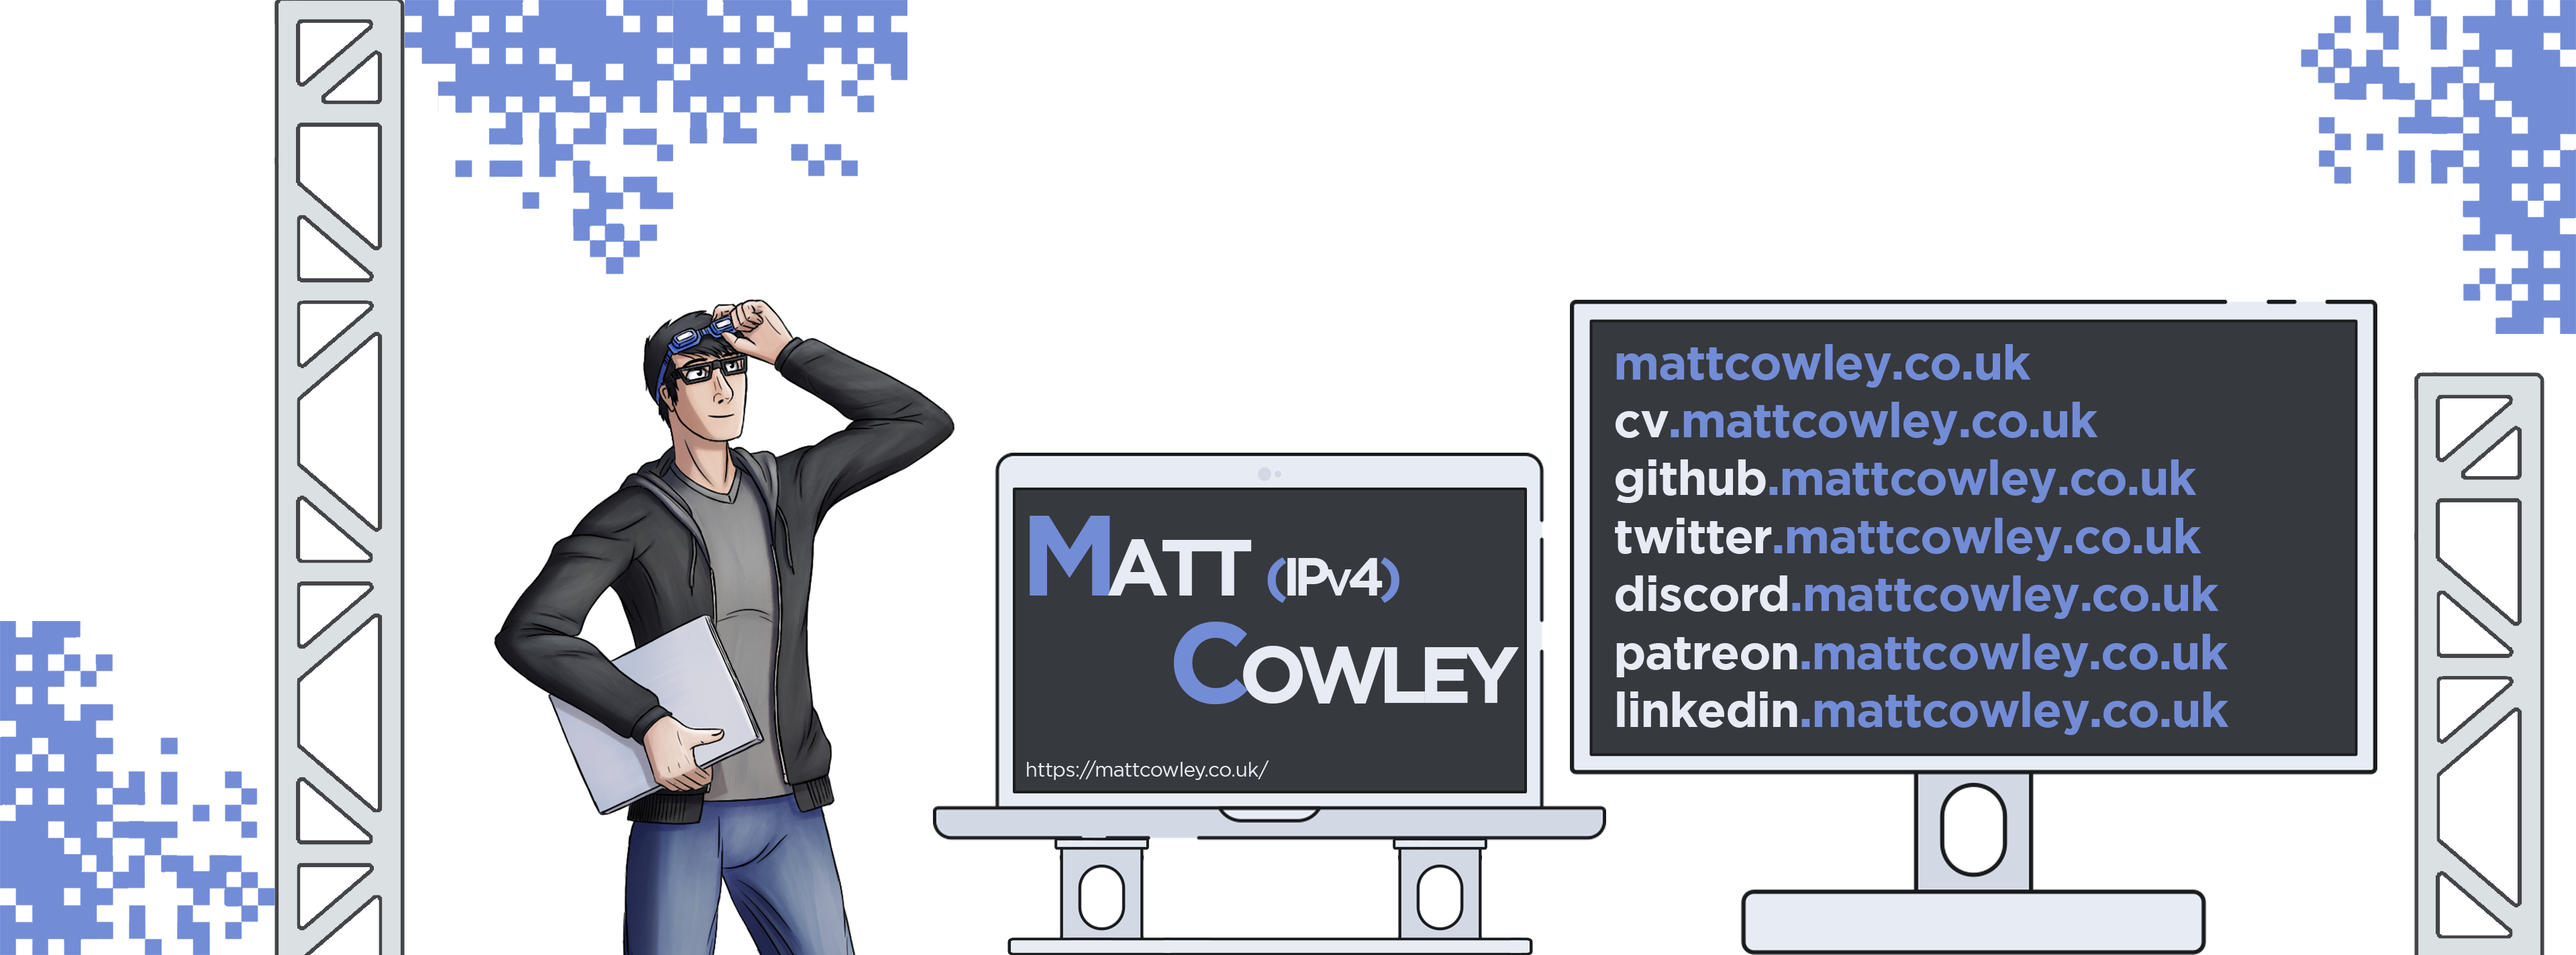
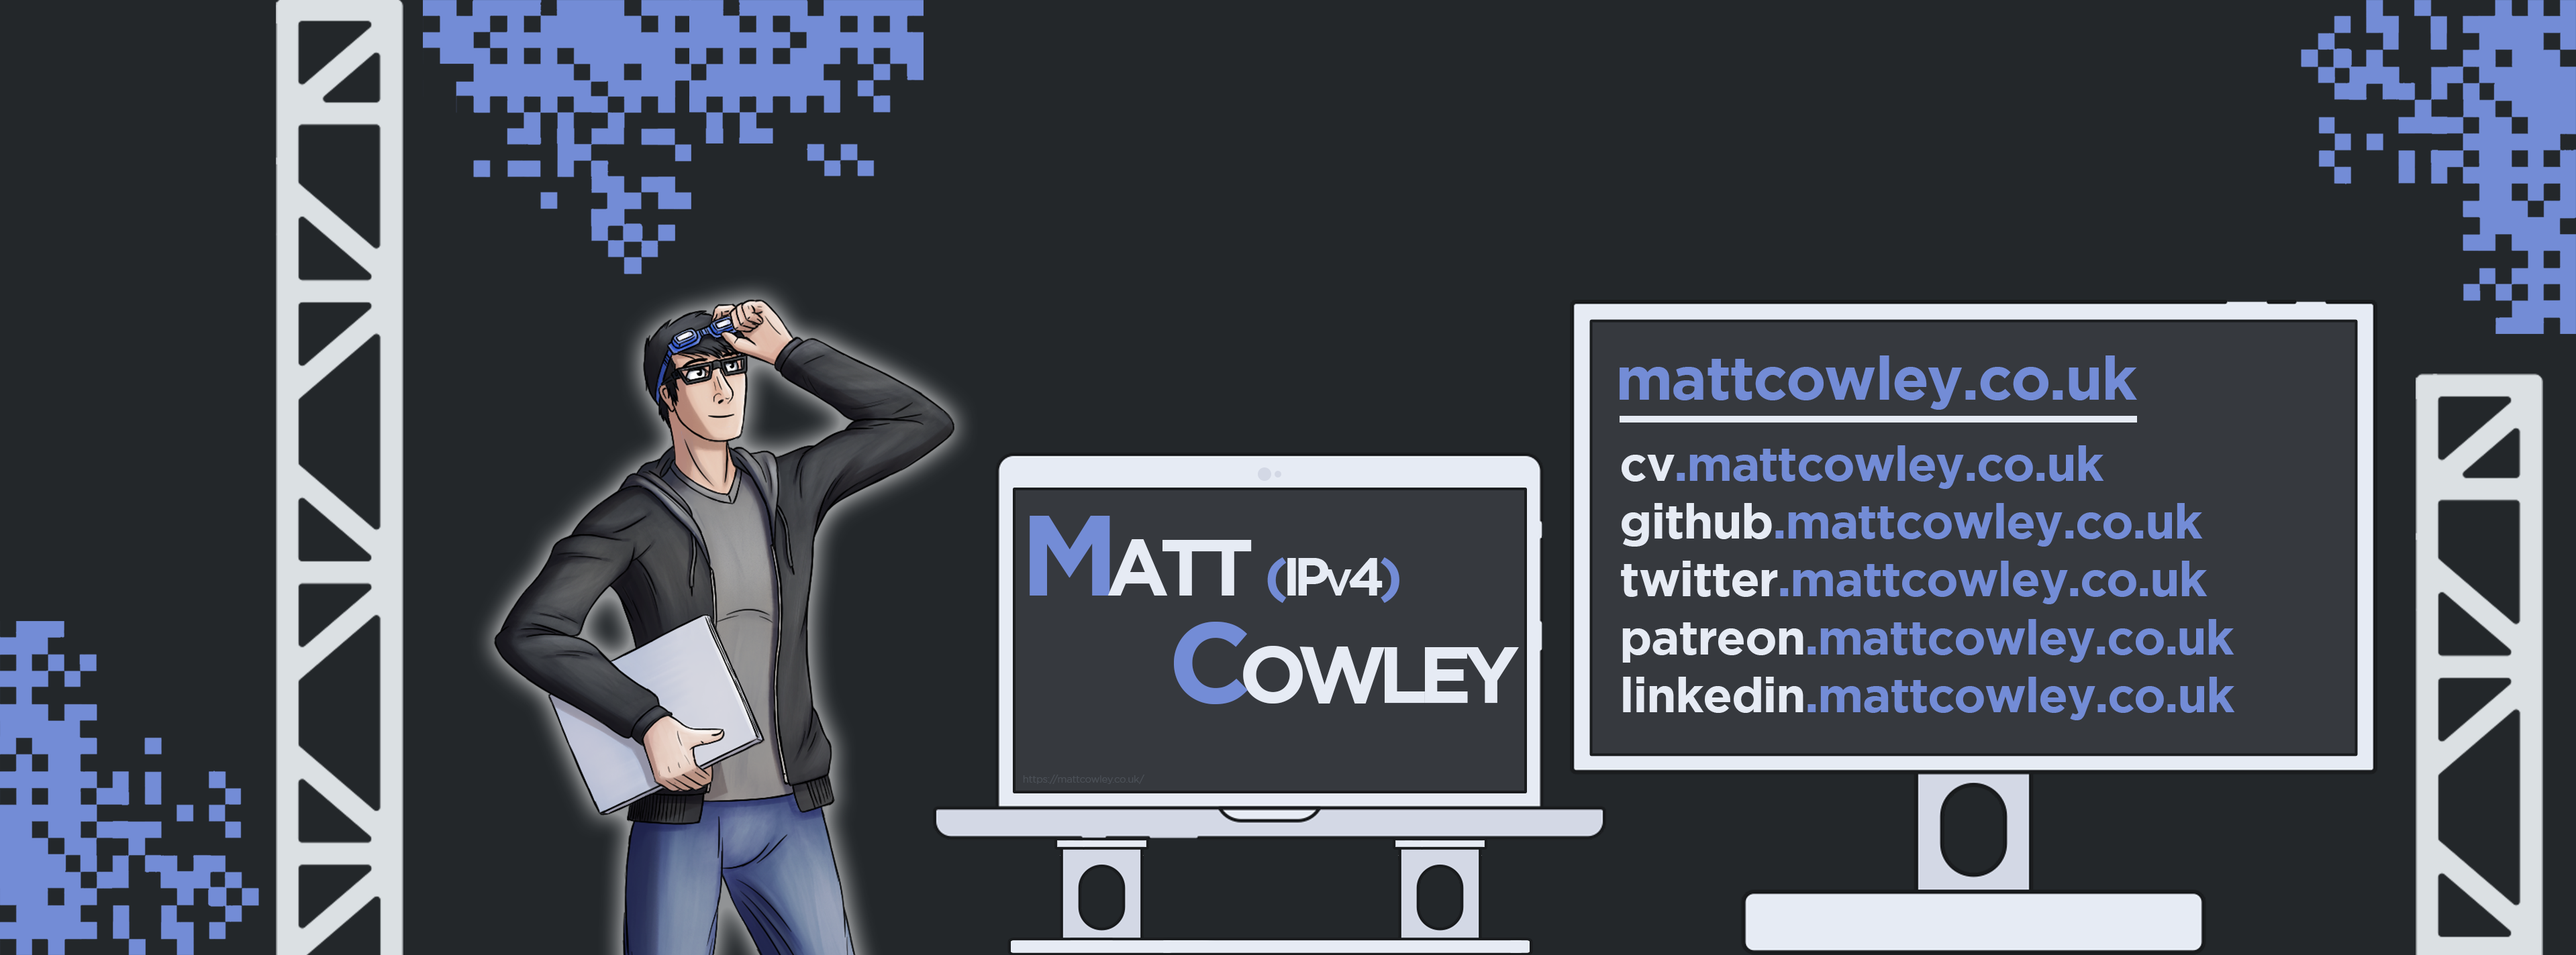
update brand to use dark images

diff --git a/templates/components/config.php b/templates/components/config.php
@@ -34,7 +34,7 @@ $motto[] = ["&nbsp;", true];
 $links = [];
 $links[] = ["cv.mattcowley.co.uk", ""];
 //$links[] = ["botz.mattcowley.co.uk", "Discord Bots"];
-$links[] = ["github.mattcowley.co.uk", "/MattIPv4"];
+//$links[] = ["github.mattcowley.co.uk", "/MattIPv4"];
 $links[] = ["discord.mattcowley.co.uk", "@IPv4#0001"];
 $links[] = ["patreon.mattcowley.co.uk", "/IPv4"];
 $links[] = ["twitter.mattcowley.co.uk", "@MattIPv4"];
